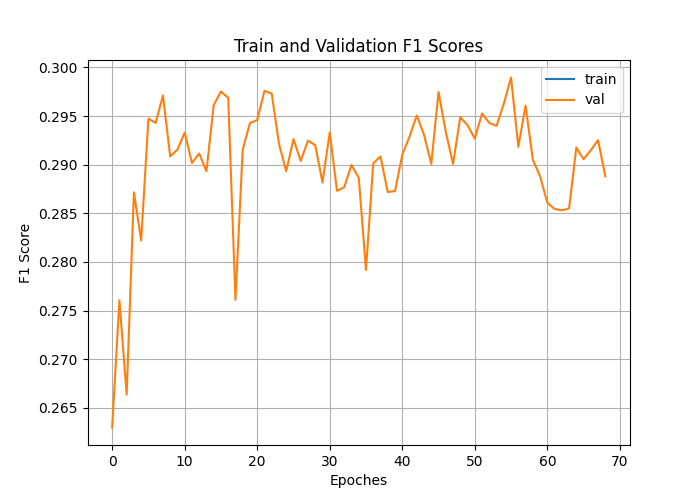
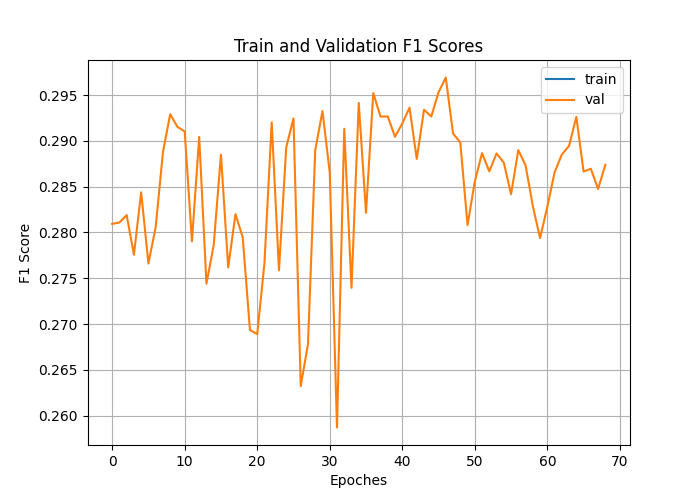
mountain trip run

diff --git a/retrieval/retrieval_5_1_rl_train.py b/retrieval/retrieval_5_1_rl_train.py
@@ -131,8 +131,8 @@ def train():
     per_beta = 0.4
     per_beta_increment = 0.001
     eta_min = 0.000001
-    warm_up_epoches = 30
-    neg_schedule = torch.linspace(0.2, 1.0, steps=warm_up_epoches)**2
+    warm_up_epoches = 40
+    neg_schedule = torch.linspace(0.2, 1.0, steps=warm_up_epoches)
 
 
     es = EarlyStopping(patience=10, delta_ratio=0.001) #12? #15? #10?
@@ -144,7 +144,7 @@ def train():
     online_net = DuelingDQN(metadata_dim, action_dim, proj_dim, dropout_p).to(device)
     target_net = DuelingDQN(metadata_dim, action_dim, proj_dim, dropout_p).to(device)
     target_net.load_state_dict(online_net.state_dict())
-    optimizer = optim.Adam(online_net.parameters(), lr=lr) #, weight_decay=1e-5)
+    optimizer = optim.Adam(online_net.parameters(), lr=lr, weight_decay=1e-6)
 
     scheduler = optim.lr_scheduler.CosineAnnealingLR(optimizer, T_max=90, eta_min=eta_min)
       
@@ -177,7 +177,6 @@ def train():
 
         if epoch < warm_up_epoches:
             p = neg_schedule[epoch].item()
-            print(p)
 
         print(f"Epoch: {epoch}")
         for query_id in train_set:
@@ -194,7 +193,7 @@ def train():
                 c for c in ranked_chunks
                 if (c in relevant_chunks) or (torch.rand(1).item() < p)
             ]
-            if epoch <= 30 and not any(item in ranked_chunks for item in relevant_chunks):
+            if epoch <= warm_up_epoches and not any(item in ranked_chunks for item in relevant_chunks):
                 continue
 
             logging.info(f"Epoch: {epoch}, Query: {query_desc}")

diff --git a/retrieval/Topic.py b/retrieval/Topic.py
@@ -85,7 +85,7 @@ class Topic:
     def skip(self):
 
         if self.current_chunk_id in self.relevant_chunks and self.current_chunk_id not in self.bag_of_chunks:
-            reward = -1
+            reward = -2
         else:
             reward = 1
 
@@ -104,7 +104,7 @@ class Topic:
         state_embedding = self.get_state_embedding()
         state_metadata = self.get_state_metadata()
 
-        return (state_embedding, state_metadata, reward, self.done)
+        return (state_embedding, state_metadata, reward/10, self.done)
     
     def take_single(self):
 
@@ -124,10 +124,6 @@ class Topic:
         
         if self.current_rank_chunk < 3 and self.current_chunk_id not in self.bag_of_chunks:
             reward += 1 - self.current_rank_chunk/3
-
-        # add to bag
-        if self.current_chunk_id not in self.bag_of_chunks:
-            self.bag_of_chunks.append(self.current_chunk_id)
         
         # go next
         if self.current_rank_chunk == len(self.ranked_chunks) - 1:
